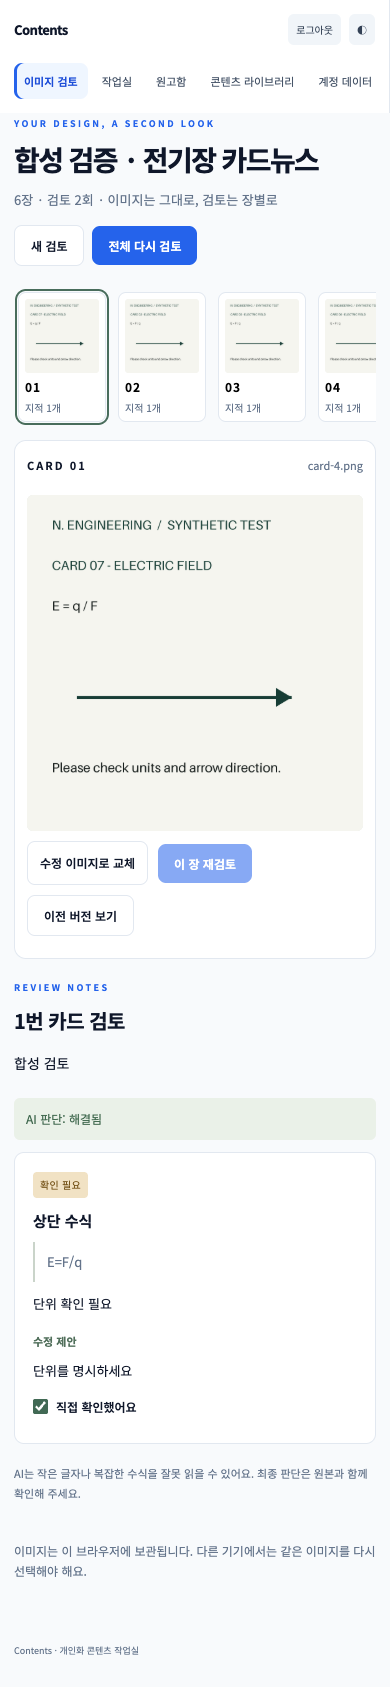
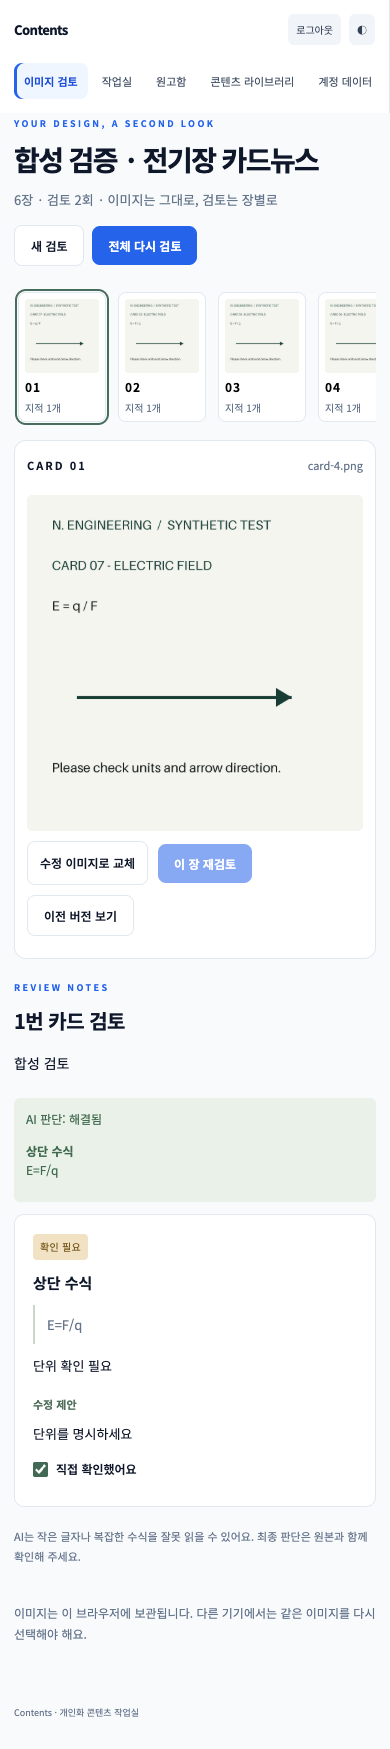
fix: 이미지 검토 복구와 이전 지적 연결 개선

diff --git a/frontend/image-review.js b/frontend/image-review.js
@@ -427,9 +427,10 @@ export function mountImageReview(root, { api, getUser, notice }) {
         images,
         previous_image,
       };
-      await persist();
-      assert();
     }
+    // Every send, including a retry, requires a durable request UUID first.
+    await persist();
+    assert();
     await renderWork();
     assert();
     const status = root.querySelector("#review-progress");
@@ -617,7 +618,7 @@ export function mountImageReview(root, { api, getUser, notice }) {
           "review-missing",
         ),
       );
-    if (historical)
+    if (historical) {
       canvas.append(
         node(
           "p",
@@ -629,7 +630,26 @@ export function mountImageReview(root, { api, getUser, notice }) {
           await renderWork();
         }),
       );
-    else {
+      if (!asset)
+        canvas.append(
+          uploadInput(
+            "review-restore-history",
+            "이 버전 이미지 다시 선택",
+            async (files) => {
+              if (!files[0]) return;
+              const restored = await prepareFile(files[0]);
+              assert();
+              if (restored.sha256 !== shown.sha256)
+                throw new Error(
+                  "이전 버전의 이미지와 달라요. 해당 버전의 같은 파일을 선택해 주세요.",
+                );
+              await putImages(account, [restored]);
+              assert();
+              await renderWork();
+            },
+          ),
+        );
+    } else {
       if (staged.has(c.card_id))
         canvas.append(
           node("p", "새 이미지 · 재검토 필요", "review-version-note"),
@@ -708,10 +728,20 @@ export function mountImageReview(root, { api, getUser, notice }) {
       );
     if (shown.result) {
       results.append(node("p", shown.result.summary, "review-result-summary"));
-      for (const r of shown.result.resolutions)
-        results.append(
-          node("p", `AI 판단: ${resolution[r.status]}`, "review-resolution"),
+      for (const r of shown.result.resolutions) {
+        const block = node("article", undefined, "review-resolution");
+        block.append(
+          node("p", `AI 판단: ${resolution[r.status]}`),
+          node(
+            "strong",
+            r.previous_finding?.location ||
+              `이전 지적 ${r.finding_id.slice(0, 8)}`,
+          ),
         );
+        if (r.previous_finding?.evidence)
+          block.append(node("p", r.previous_finding.evidence));
+        results.append(block);
+      }
       if (!shown.result.findings.length)
         results.append(node("p", "이번 검토에서 지적 없음", "review-empty"));
       for (const f of shown.result.findings)

diff --git a/frontend/image-review.css b/frontend/image-review.css
@@ -180,6 +180,7 @@
   scrollbar-width: thin;
 }
 .review-card {
+  flex-shrink: 0;
   padding: 6px;
   background: var(--surface, #fff);
   border: 1px solid var(--line, #e0e4df);

diff --git a/backend/app/image_review_service.py b/backend/app/image_review_service.py
@@ -180,6 +180,10 @@ def run(db, reviewer, settings, uid, rid, body):
             expected = sorted(f["id"] for f in prior_findings[card["card_id"]])
             if sorted(r["finding_id"] for r in card["resolutions"]) != expected:
                 raise ValueError("Invalid finding resolution")
+            previous_by_id = {f["id"]: f for f in prior_findings[card["card_id"]]}
+            for resolution in card["resolutions"]:
+                prior = previous_by_id[resolution["finding_id"]]
+                resolution["previous_finding"] = {k: prior[k] for k in ("location", "evidence")}
         all_ids = {c["card_id"] for c in doc["cards"]}
         for connection in result["connections"]:
             if (

diff --git a/backend/tests/test_image_reviews.py b/backend/tests/test_image_reviews.py
@@ -124,7 +124,11 @@ def test_batch_replace_history_checks_and_no_images_saved(image_env):
     assert updated["cards"][0]["sha256"] == replacement["sha256"]
     assert updated["cards"][0]["result"]["findings"][0]["checked"] is False
     assert updated["cards"][0]["result"]["resolutions"] == [
-        {"finding_id": fid, "status": "resolved"}
+        {
+            "finding_id": fid,
+            "status": "resolved",
+            "previous_finding": {"location": "상단 수식", "evidence": "E=F/q"},
+        }
     ]
     assert updated["connections_stale"] is True
     versions = c.get(f"/api/image-reviews/{d['id']}/cards/one/versions", headers=auth()).json()

diff --git a/docs/superpowers/plans/2026-10-19-image-review.md b/docs/superpowers/plans/2026-10-19-image-review.md
@@ -86,13 +86,13 @@
 
 **Interfaces:** 테스트용 `PreviewGenerator` 또는 별도 검토 fixture를 `create_app(image_reviewer=...)`로 주입한다. 테스트 모듈은 운영 앱에서 import하지 않는다. 실제 모델 확인은 합성 이미지로만 수행하며 Firestore에 결과를 쓰지 않는다.
 
-- [ ] **1. RED:** 합성 6장(중복 파일명 포함) 업로드→정렬 변경→전체 검토→장별 결과→한 장 교체→해결 제안→사용자 체크→이전 버전→새로고침 복구의 E2E를 작성하고 화면 미구현 상태에서 실패 확인한다. 실제 UI 구현 시나리오가 정해진 Task 3 시작 전 이 RED 검사를 먼저 실행한다.
-- [ ] **2. 검증:** 모델 응답 유실을 한 번 주입해 재시도가 모델 호출을 늘리지 않는지 확인한다. IndexedDB 실패 시 API 미호출, 저장소 삭제 후 이미지 재선택, 느린 요청 중 로그아웃·다른 UID 로그인 후 이미지·응답 누출 없음, 모델 문자열 XSS 비실행을 검사한다.
-- [ ] **3. 검증:** 모바일 가로 넘침 없음, 파일 선택·장 이동·이미지 확대·교체가 가능함을 확인한다. 합성 카드로 데스크톱·모바일 스크린샷을 저장하고 직접 시각 확인한다.
-- [ ] **4. 실제 모델:** 현재 설정 제공업체에 합성 이미지 2장을 보내 멀티모달 전송·스키마·장 ID 대응을 검증한다. 이미지를 읽는지 구분할 수 있는 시각 표식과 명확한 오류를 넣는다. 미지원·거부·출력 잘림은 숨기지 않고 문서화하고 실행 환경 설정을 명확히 안내한다. 키는 출력하지 않는다.
-- [ ] **5. 회귀:** 백엔드 전체 pytest·Ruff·정적 빌드·포맷 검사와 기존 `flow`, `durability`, `editor`, `editor-regressions` E2E를 실행한다. 실패는 원인 수정 후 관련 범위만 재실행하고 마지막 전체 검증은 한 번 수행한다.
-- [ ] **6. 문서:** 사용 순서, 검토 범위·이미지 보관 한계, API, 실제/목 테스트 차이, 현재 제공업체 및 GPT 과제 요건 차이를 README와 verification에 기록한다.
-- [ ] **7. 독립 검토:** executing-plans의 최종 검토 지침에 따라 완성 변경에 대해 독립 리뷰를 받고 재현 가능한 지적을 수정한다. 비밀 키·원고·실제 이미지가 Git diff에 없는지 확인한다.
+- [x] **1. RED:** 합성 6장(중복 파일명 포함) 업로드→정렬 변경→전체 검토→장별 결과→한 장 교체→해결 제안→사용자 체크→이전 버전→새로고침 복구의 E2E를 작성하고 화면 미구현 상태에서 실패 확인한다. 실제 UI 구현 시나리오가 정해진 Task 3 시작 전 이 RED 검사를 먼저 실행한다.
+- [x] **2. 검증:** 모델 응답 유실을 한 번 주입해 재시도가 모델 호출을 늘리지 않는지 확인한다. IndexedDB 실패 시 API 미호출, 저장소 삭제 후 이미지 재선택, 느린 요청 중 로그아웃·다른 UID 로그인 후 이미지·응답 누출 없음, 모델 문자열 XSS 비실행을 검사한다.
+- [x] **3. 검증:** 모바일 가로 넘침 없음, 파일 선택·장 이동·이미지 확대·교체가 가능함을 확인한다. 합성 카드로 데스크톱·모바일 스크린샷을 저장하고 직접 시각 확인한다.
+- [x] **4. 실제 모델:** 현재 설정 제공업체에 합성 이미지 2장을 보내 멀티모달 전송·스키마·장 ID 대응을 검증한다. 이미지를 읽는지 구분할 수 있는 시각 표식과 명확한 오류를 넣는다. 미지원·거부·출력 잘림은 숨기지 않고 문서화하고 실행 환경 설정을 명확히 안내한다. 키는 출력하지 않는다.
+- [x] **5. 회귀:** 백엔드 전체 pytest·Ruff·정적 빌드·포맷 검사와 기존 `flow`, `durability`, `editor`, `editor-regressions` E2E를 실행한다. 실패는 원인 수정 후 관련 범위만 재실행하고 마지막 전체 검증은 한 번 수행한다.
+- [x] **6. 문서:** 사용 순서, 검토 범위·이미지 보관 한계, API, 실제/목 테스트 차이, 현재 제공업체 및 GPT 과제 요건 차이를 README와 verification에 기록한다.
+- [x] **7. 독립 검토:** executing-plans의 최종 검토 지침에 따라 완성 변경에 대해 독립 리뷰를 받고 재현 가능한 지적을 수정한다. 비밀 키·원고·실제 이미지가 Git diff에 없는지 확인한다.
 - [ ] **8. 커밋·PR:** `test: 이미지 검토 흐름 검증과 사용 안내` 커밋 후 `codex/image-review`를 push하고 구체적인 검증 결과를 포함한 PR을 생성·첨부한다. 새 운영 화면 전환은 검증된 결과를 제시한 뒤 사용자 승인을 최종 단계로 받는다.
 
 ## 실행 방식 제안 및 현재 상태

diff --git a/README.md b/README.md
@@ -7,7 +7,7 @@
 1. Google 로그인 후 **이미지 검토**에서 PNG·JPEG·WebP 정지 이미지 1~10장을 선택합니다. 원본 한 장은 10MB·4천만 화소 이하입니다.
 2. 썸네일에서 순서를 확인합니다. 필요하면 **앞으로 / 뒤로**로 옮기고 검토 제목을 입력합니다.
 3. ‘부호와 단위를 특히 봐줘’처럼 이번 기준을 적고 **전체 검토**를 누릅니다. 기본 검토 기준은 명시적으로 선택한 경우에만 같은 브라우저에서 재사용합니다.
-4. 왼쪽에서 카드를 고르면 가운데 원본과 오른쪽 검토 결과가 함께 표시됩니다. 이미지는 눌러 확대할 수 있습니다.
+4. 왼쪽에서 카드를 고르면 가운데 카드 이미지와 오른쪽 검토 결과가 함께 표시됩니다. 이미지는 눌러 확대할 수 있습니다.
 5. 외부 제작 도구에서 고친 이미지를 **수정 이미지로 교체**한 뒤 **이 장 재검토**를 누릅니다. 다른 장의 결과는 유지됩니다.
 6. AI의 해결 판단과 별도로 **직접 확인했어요**를 체크합니다. **이전 버전 보기**로 과거 결과도 확인할 수 있습니다.
 
@@ -38,7 +38,7 @@
 
 **이미지 원본·검토용 이미지**는 계정 UID별로 분리해 브라우저 IndexedDB에 보관합니다. 검토할 때만 현재 설정된 AI 제공업체로 전송하며, Firestore나 Git에는 이미지 base64를 저장하지 않습니다. 검토용 이미지는 긴 변 2,400px 이하·1MB 이하로 준비하며 원본과 다르게 보일 수 있습니다. 애니메이션·손상 파일·위장 형식은 거부합니다.
 
-**검토 제목·파일명·이미지 해시·기준·장별 결과·버전·사용자 체크**는 Firestore에 저장합니다. Google 로그인이 같아도 다른 기기에서는 이미지가 자동으로 따라오지 않습니다. 브라우저 저장소를 지웠을 때도 같은 파일을 다시 선택해야 합니다. 과거 이미지와 다른 파일은 과거 결과에 연결하지 않습니다. 원본 파일은 별도로 보관하세요.
+**검토 제목·파일명·이미지 해시·기준·장별 결과·버전·사용자 체크**는 Firestore에 저장합니다. Google 로그인이 같아도 다른 기기에서는 이미지가 자동으로 따라오지 않습니다. 브라우저 저장소를 지웠을 때도 같은 파일을 다시 선택해야 합니다. 과거 이미지와 다른 파일은 과거 결과에 연결하지 않습니다. 원본 파일은 별도로 보관하세요. 브라우저별 재인코딩 차이로 같은 원본의 검토용 해시가 달라지는 경우는 검증하지 않았으며, 해시가 다르면 자동 연결하지 않습니다. 확대 화면도 검토용 이미지입니다.
 
 브라우저 저장 실패는 AI 요청 전에 알립니다. 응답이 끊기면 **검토 상태 확인**으로 저장된 결과를 복구하고, 서버에 요청이 도달하지 않았으면 **같은 요청 재시도**를 사용합니다. 새 요청 UUID로 다시 검토하면 새 모델 호출이며 사용량에 포함됩니다. 이미지 검토·채팅·원고 검토는 공통 일일 요청 한도를 사용합니다.
 
@@ -192,6 +192,7 @@ python -m http.server 18101 --bind 127.0.0.1 --directory frontend/public
 # 터미널 3
 pnpm exec playwright install chromium
 pnpm test:image-review
+pnpm test:image-review-regressions
 pnpm test:e2e
 pnpm test:durability
 pnpm test:editor
